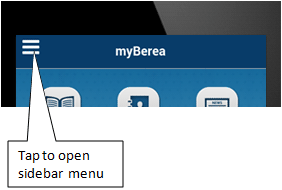
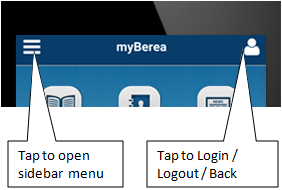
help images and help page update

diff --git a/partials/help.html b/partials/help.html
@@ -7,6 +7,13 @@
 .help-img {
     box-shadow:0 0 10px #000;
 }
+
+div.list-group-item.active{
+    color:#fff;
+    background:#083c69 !important;
+}
+
+
 </style>
 <div class="scrollable">
     <div class="scrollable-content">
@@ -24,7 +31,7 @@
                     <button class="btn btn-success" ng-click="gohome();">Press Me</button> to go to Home screen.
                 </div>
             </div>
-            <a class="list-group-item active">Navigation - Home screen</a>
+            <div class="list-group-item active">Navigation - Home screen</div>
             <div class="list-group-item">
                 <p class="help-text">
                 Tap on the left top left corner to launch the side bar navigation.
@@ -42,7 +49,7 @@
                 <img class="help-img" src="img/help2.png" style="width:100%;"/>
             </div>
             
-            <a class="list-group-item active">Launching the Apps</a>
+            <div class="list-group-item active">Launching the Apps</div>
             <div class="list-group-item">
                 <p class="help-text">
                 <h3>Two ways to launch the apps<br></h3>
@@ -51,14 +58,14 @@
                 <!--<i class="fa fa-check"></i>&nbsp;Dock icon<br>-->
                 </p>
             </div>
-            <a class="list-group-item active">Report an issue</a>
+            <div class="list-group-item active">Report an issue</div>
             <div class="list-group-item">
                 <p class="help-text">
                 If you encounter any issues with the app, please use the 'Report Issue' menu under the sidebar to report the same
                 in an email. Please attach screenshots if any.
                 </p>
             </div>
-            <a class="list-group-item active">Troubleshooting</a>
+            <div class="list-group-item active">Troubleshooting</div>
             <div class="list-group-item">
                 <p class="help-text">
                 If you encounter issues related to the app icons not loading after the metadata update, use
